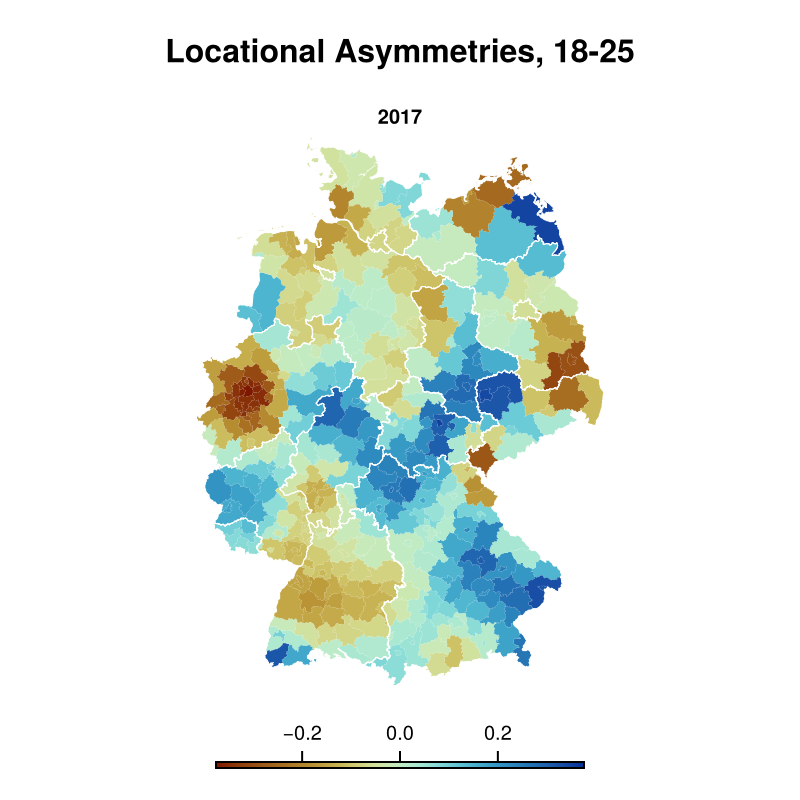
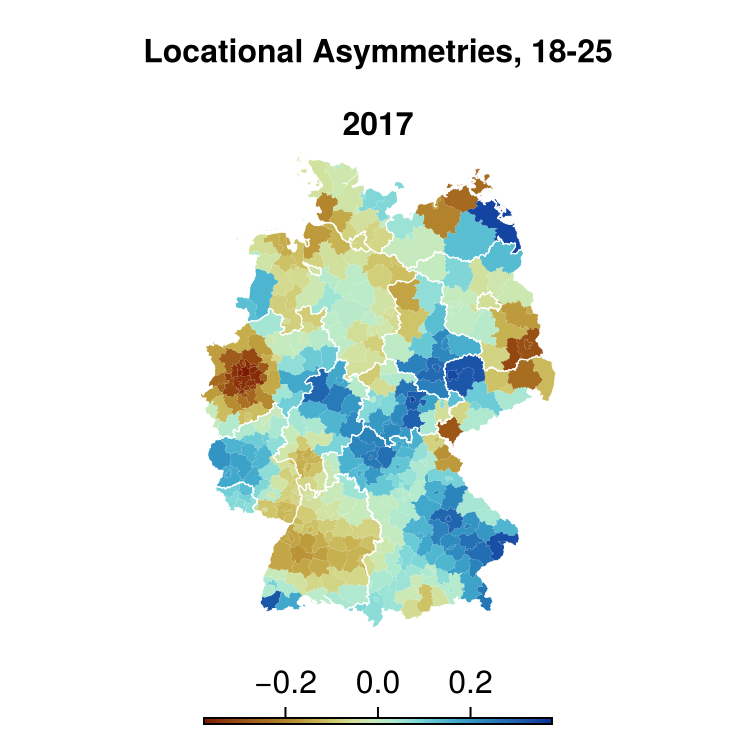
Better figure size
Squashed commit of the following:

commit 0d1be101532b74b364478715c77048a5e279101f
Author: Konstantin Hoffie <konstantin.hoffie@web.de>
Date:   Tue Dec 9 17:46:10 2025 +0100

    update

commit ae773642f41aff70331fb51205ba77d5872447cb
Author: Konstantin Hoffie <konstantin.hoffie@web.de>
Date:   Tue Dec 9 17:44:18 2025 +0100

    update

commit 33bec83ec3f615a663c97c586212cbcb222b7c83
Author: Konstantin Hoffie <konstantin.hoffie@web.de>
Date:   Tue Dec 9 17:42:55 2025 +0100

    update

commit f9b7811f56c3d634645be725cd29adaa0b86f353
Author: Konstantin Hoffie <konstantin.hoffie@web.de>
Date:   Tue Dec 9 17:40:53 2025 +0100

    typos

commit e4b8051fc4d53a7ddff7f126e99398fa3f17c8f9
Author: Konstantin Hoffie <konstantin.hoffie@web.de>
Date:   Tue Dec 9 17:39:55 2025 +0100

    image size

Changed region(s): [[0.2434, 0.1217, 0.7606, 0.8519], [0.1825, 0.0304, 0.8214, 0.0913], [0.2738, 0.8823, 0.7302, 0.9735]]

diff --git a/README.md b/README.md
@@ -111,8 +111,8 @@ pcoefs = seplot(res)
 
 
 ![check fit](./docs/pcheck.png)
-![Density transition function](./docs/pdtf.png)
-![Locational Asymmetries](./docs/pgeo.png)
+[<img src="./docs/pdtf.png" width="400"/>](./docs/pdtf.png)
+[<img src="./docs/pgeo.png" width="400"/>](./docs/pgeo.png)
 ![Estimates](./docs/pcoefs.png)
 
 ## Issues
